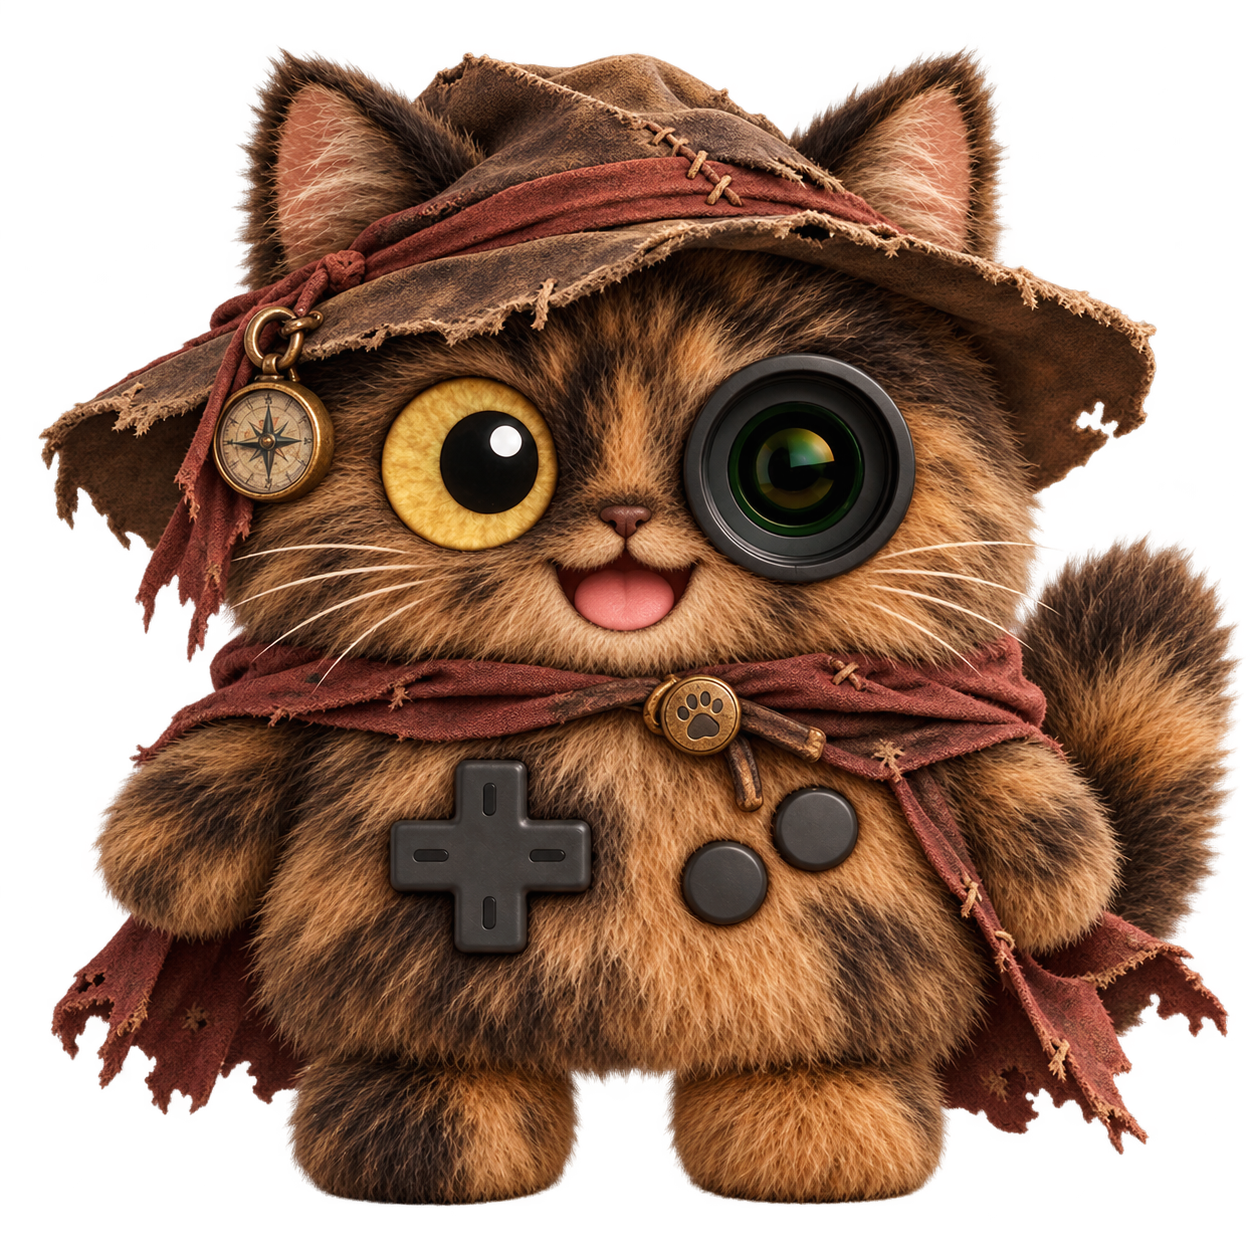
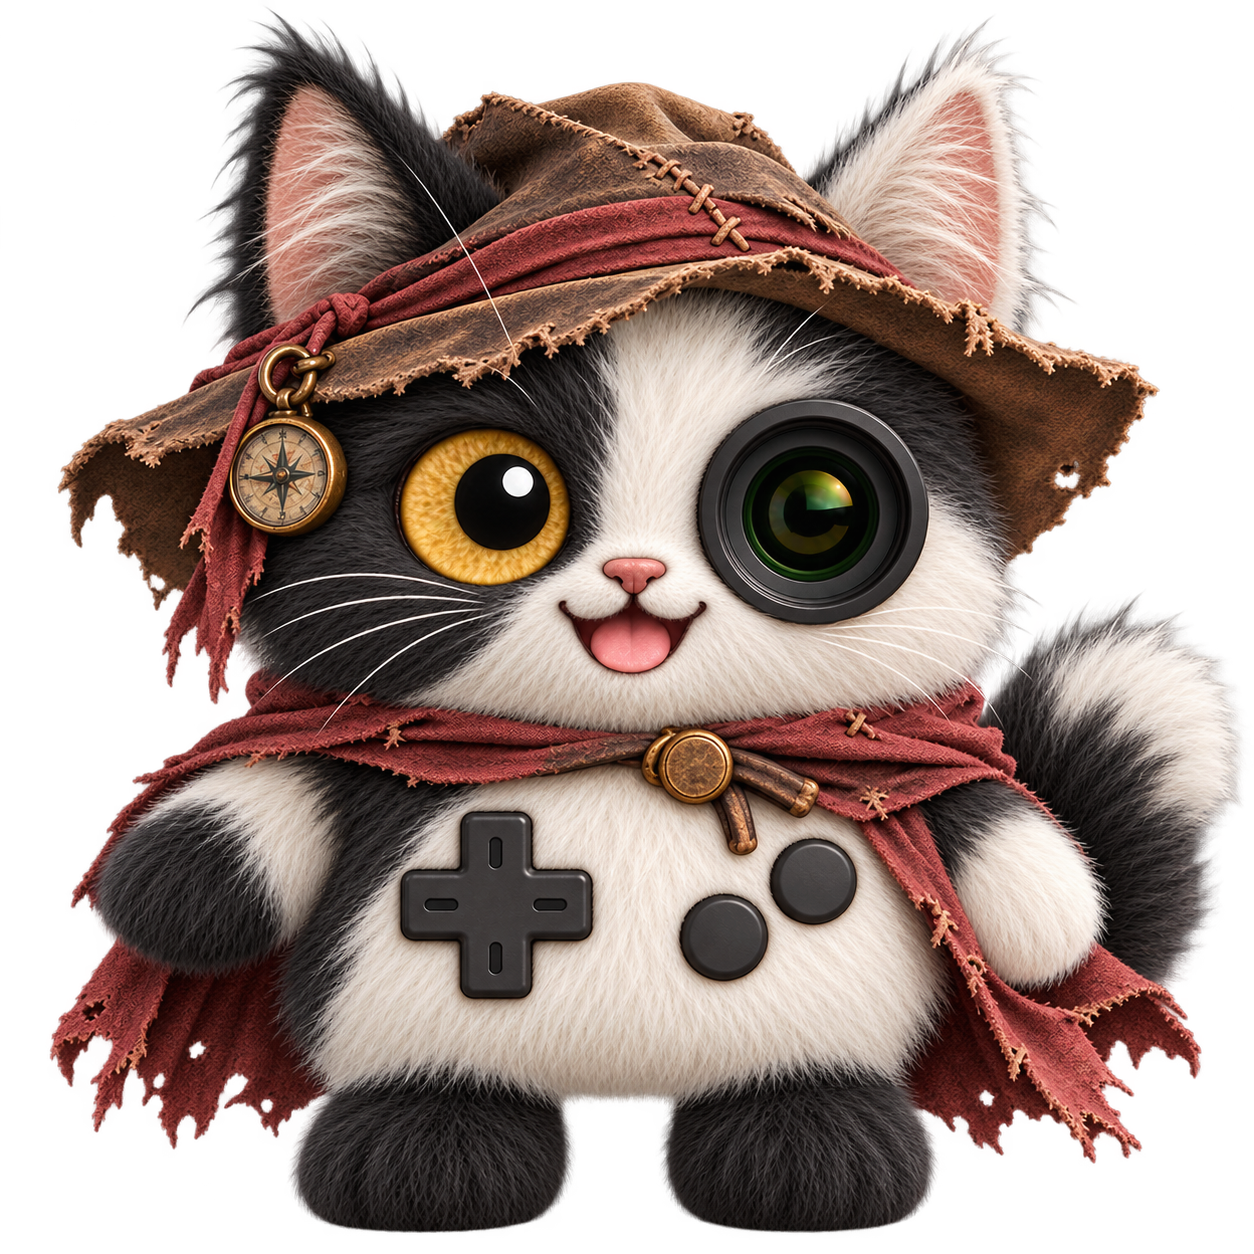
Differentiate ten look-alike Mobbies with distinct coats ears and faces

diff --git a/assets/cat-mobbies/review/validate-progress.py b/assets/cat-mobbies/review/validate-progress.py
@@ -1,0 +1,29 @@
+"""Validate generated asset records, fixed identities and scope against branch base."""
+import json,hashlib,subprocess,re
+from pathlib import Path
+from PIL import Image
+root=Path('assets/cat-mobbies');records=[json.loads(p.read_text(encoding='utf-8')) for p in (root/'review').glob('accepted-*.json')]
+ids={r['id'] for r in records};assert len(ids)==len(records)
+for rel in ['manifest.json','new/manifest.json']:
+ path=root/rel;now=json.loads(path.read_text(encoding='utf-8'));old=json.loads(subprocess.check_output(['git','show','00114a8:'+path.as_posix()]))
+ arr=now['characters'] if isinstance(now,dict) else now;prev=old['characters'] if isinstance(old,dict) else old
+ assert len(arr)==len(prev)
+ for e,o in zip(arr,prev):
+  for k in ['id','name','file','condition']:
+   assert e.get(k)==o.get(k),(e['id'],k)
+  if e['id'] not in ids:assert e==o,e['id']
+  else:assert e.get('regen') is True and e.get('regenReason')
+listtext=Path('docs/codex/BREEDS_100_LIST.md').read_text(encoding='utf-8');specs={}
+for row in listtext.splitlines():
+ cols=[c.strip() for c in row.strip('|').split('|')]
+ if row.startswith('| ') and len(cols)==3 and cols[0] not in ['ID','---']:specs[cols[0]]=cols[1]
+assert len(specs)==100
+for e in json.loads((root/'breeds2/manifest.json').read_text(encoding='utf-8')):assert specs[e['id']]==e['name'];assert e['batch'] in 'abcdefghij' and e['kind']=='breed'
+for r in records:
+ p=Path(r['target']);im=Image.open(p);assert im.size==(1254,1254) and im.mode=='RGBA';lo,hi=im.getchannel('A').getextrema();assert lo==0 and hi>=250
+ v=r['validation'];assert hashlib.sha256(p.read_bytes()).hexdigest()==v['sha256'] and p.stat().st_size==v['bytes']
+changed=subprocess.check_output(['git','diff','00114a8','--name-only'],text=True).splitlines();assert all(p.startswith(('assets/cat-mobbies/','docs/codex/')) for p in changed)
+a=[r for r in records if r.get('kind')!='breed'];b=[r for r in records if r.get('kind')=='breed']
+report={'aAccepted':len(a),'aIds':sorted(r['id'] for r in a),'bAccepted':len(b),'bRemaining':100-len(b),'bIds':sorted(r['id'] for r in b),'scopeCheck':'passed: only cat assets and records','hashDimensionAlphaIdentityChecks':'passed','visualQA':'per accepted record; final similarity re-audit still pending'}
+(root/'review/progress.json').write_text(json.dumps(report,ensure_ascii=False,indent=2)+'\n',encoding='utf-8')
+print(json.dumps(report,ensure_ascii=False))

diff --git a/assets/cat-mobbies/review/update-progress.py b/assets/cat-mobbies/review/update-progress.py
@@ -1,0 +1,5 @@
+from pathlib import Path
+p=Path('assets/cat-mobbies/review/similarity.md');s=p.read_text(encoding='utf-8').replace('状態: 初回監査完了、試作生成中。Aの再描画と最終再監査、Bの100匹は未完了。','状態: 初回監査と指定5匹の試作比較を完了。A本番の再描画中。A最終再監査とB本番は未完了。')
+s+='\n## 再開後の試作確定\n\n指定5匹が揃い、既存36匹と並べて質感・型を目視確認した。shikaku再試作を採用し、元のキャラ案に合わせたキャラメル単色短毛・低い丸耳・四角い体に変更。savannah（d）は大きな耳と黒い斑点、mike-neko（j）は短毛の白黒橙と長い尾で採用。全5匹1254×1254 RGBA透過。mike-nekoのアルファ最大値は254（ほぼ不透明）であり、生成アルファを変更せず保存した。A採用2匹、B試作3匹。ここからA本番へ進む。\n'
+p.write_text(s,encoding='utf-8')
+p=Path('assets/cat-mobbies/breeds2/README.md');s=p.read_text(encoding='utf-8').replace('現在の採用: ragdoll-seal-mitted（f）','現在の採用3匹: savannah（d）、ragdoll-seal-mitted（f）、mike-neko（j）').replace('残り99匹','残り97匹').replace('アルファ最小0/最大255','アルファ最小0/最大254〜255');p.write_text(s,encoding='utf-8')

diff --git a/assets/cat-mobbies/provenance/prompts-regen-prototypes.md b/assets/cat-mobbies/provenance/prompts-regen-prototypes.md
@@ -2,6 +2,62 @@
 
 Built-in image_gen. Reference 1: characters/bengal.png; reference 2: characters/ragdoll.png. A edits also use original target as reference 3.
 
+## bunshin
+
+Use case: stylized-concept. ONE cat Mobby, exact 1254x1254 transparent alpha PNG. References 1 bengal and 2 ragdoll define realistic individually visible directional animal fur, glossy eye, camera lens and controls. Unified rounded-square head/body with NO neck or separate head, short arms and two short feet, front-facing upright full body. Exactly ONE living cat eye viewer LEFT, round black pupil and white catchlight; exactly ONE black concentric camera lens viewer RIGHT, green reflective glass. Exactly one black cross D-pad lower LEFT with four inset slots and exactly TWO plain unmarked black round buttons diagonally lower RIGHT. Tiny nose W mouth whiskers. No paw marks on controls. Soft studio light. Centered with generous TRANSPARENT margin around all extremities, no floor, checkerboard, text or watermark. Never plush or felt. REGENERATE bunshin. Reference image 3 is the original edit target; retain its concept and the specified props while replacing the MAIN CAT's appearance. References 1/2 define hardware/fur quality only. Dark cool BLUE GREY short tight curly fur, NO brown orange or tortie. Very small rounded ears, a low wide square body, silver-green living iris. Keep two pale faceless translucent afterimage silhouettes behind the main cat, without extra visible eyes/lenses/controls. Keep tan collar. All props must leave eye lens and controls visible. Keep original filename/identity; no new text.
+
+Reason: rea-mobbyを含む長毛キジ三毛グループとの重複を解消。青灰の短い巻き毛、低い丸耳、銀緑目へ変更。残像と首輪を保持。
+
+QA: accepted: one biological eye, right green-glass lens, D-pad and two plain buttons visible; original concept props retained, distinct coat and texture
+
+## collector
+
+Use case: stylized-concept. Regenerate ONE collector cat Mobby. Reference 1 bengal and 2 ragdoll define realistic directional fur, living eye/hardware quality. Reference 3 original target defines concept and props only. BLUE and CREAM broad patches, SHORT smooth coat, small FOLDED ears, very plump wide rounded-square torso with round cheeks, copper eye. No orange black tortie or long fur. Preserve original monocle, brown strap, small photo collection album. Keep unified rounded-square head/body NO neck, two short feet and short arms. Exactly ONE living eye viewer LEFT with round pupil and white highlight, exactly ONE green-glass black camera lens viewer RIGHT. One black D-pad lower LEFT, exactly TWO plain black round buttons diagonal lower RIGHT. No paw marks on controls. Front full body. Soft studio light. True transparent alpha PNG exact1254x1254, generous margin; no floor/checkerboard/text/watermark. Change main cat ears face fur and body proportions substantially from image3.
+
+Reason: rea-mobby等との長毛キジ三毛の重複を解消。青クリームの短毛・折れ耳・幅広体型へ変更。片眼鏡と猫写真アルバムを保持。
+
+QA: accepted: correct eye/lens/controls, original concept props retained; coat, ears and face differentiated
+
+## country-30
+
+Use case: stylized-concept. ONE cat Mobby, exact 1254x1254 transparent alpha PNG. References 1 bengal and 2 ragdoll define realistic individually visible directional animal fur, glossy eye, camera lens and controls. Unified rounded-square head/body with NO neck or separate head, short arms and two short feet, front-facing upright full body. Exactly ONE living cat eye viewer LEFT, round black pupil and white catchlight; exactly ONE black concentric camera lens viewer RIGHT, green reflective glass. Exactly one black cross D-pad lower LEFT with four inset slots and exactly TWO plain unmarked black round buttons diagonally lower RIGHT. Tiny nose W mouth whiskers. No paw marks on controls. Soft studio light. Centered with generous TRANSPARENT margin around all extremities, no floor, checkerboard, text or watermark. Never plush or felt. REGENERATE country-30. Reference image 3 is the original edit target; retain its concept and the specified props while replacing the MAIN CAT's appearance. References 1/2 define hardware/fur quality only. IVORY CREAM coarse SHORT WIRY fur, solid pale body with subtle grey ear tips, NO orange brown tabby/tortie. Broad low sturdy squared torso, medium rounded ears and broad smiling muzzle, warm gold iris. Preserve explorer hat, backpack and rolled map from image 3 without extra props. All props must leave eye lens and controls visible. Keep original filename/identity; no new text.
+
+Reason: rea-mobbyを含む長毛キジ三毛グループとの重複を解消。アイボリーの短い粗毛、灰色の耳先、幅広体型へ変更。探検帽・リュック・地図を保持。
+
+QA: accepted: one biological eye, right green-glass lens, D-pad and two plain buttons visible; original concept props retained, distinct coat and texture
+
+## halloween
+
+Use case: stylized-concept. ONE cat Mobby, exact 1254x1254 transparent alpha PNG. References 1 bengal and 2 ragdoll define realistic individually visible directional animal fur, glossy eye, camera lens and controls. Unified rounded-square head/body with NO neck or separate head, short arms and two short feet, front-facing upright full body. Exactly ONE living cat eye viewer LEFT, round black pupil and white catchlight; exactly ONE black concentric camera lens viewer RIGHT, green reflective glass. Exactly one black cross D-pad lower LEFT with four inset slots and exactly TWO plain unmarked black round buttons diagonally lower RIGHT. Tiny nose W mouth whiskers. No paw marks on controls. Soft studio light. Centered with generous TRANSPARENT margin around all extremities, no floor, checkerboard, text or watermark. Never plush or felt. REGENERATE halloween. Reference 3 original target defines props/concept only; reference 1 bengal and 2 ragdoll define Mobby anatomy, hardware and realistic directional fur. BLACK SMOKE short sleek fur with pale SILVER undercoat at cheeks and flanks, NO brown/orange fur. LARGE wide-set ears, narrow square body, angular cheeks, amber eye. Keep little witch hat with pumpkin and broom, bell collar. Preserve unified rounded-square body no neck, short limbs. One living eye viewer left and one black green glass lens viewer right; one D-pad lower left and exactly two plain black diagonal round buttons lower right. Props must not hide controls. Front full body, real animal fur not felt. Exact1254x1254 transparent PNG with margin, no floor/grid/text/watermark.
+
+Reason: 茶色単色の丸顔グループから、黒煙と銀下毛の短毛・大耳・角張った顔へ変更。魔女帽子・かぼちゃ・ほうき・鈴を保持。
+
+QA: accepted: correct one eye/right lens/D-pad/two plain buttons, concept props retained, distinct main coat
+
+## kikan
+
+Use case: stylized-concept. Regenerate ONE kikan cat Mobby. Reference 1 bengal and 2 ragdoll define realistic directional fur, living eye/hardware quality. Reference 3 original target defines concept and props only. JET BLACK and WHITE asymmetric broad patches, coarse SHORT guard hairs, NO brown orange/tortie. White crown, black viewer-left cheek, broad white belly, black feet. Tall triangular tufted ears, rugged angular muzzle, lean squared torso, amber eye. Preserve worn travel hat and burgundy ragged cape and compass clasp. Keep unified rounded-square head/body NO neck, two short feet and short arms. Exactly ONE living eye viewer LEFT with round pupil and white highlight, exactly ONE green-glass black camera lens viewer RIGHT. One black D-pad lower LEFT, exactly TWO plain black round buttons diagonal lower RIGHT. No paw marks on controls. Front full body. Soft studio light. True transparent alpha PNG exact1254x1254, generous margin; no floor/checkerboard/text/watermark. Change main cat ears face fur and body proportions substantially from image3.
+
+Reason: rea-mobby等との長毛キジ三毛の重複を解消。黒白の非対称大斑・短い粗毛・房耳へ変更。古い旅帽子と赤茶マントを保持。
+
+QA: accepted: correct eye/lens/controls, original concept props retained; coat, ears and face differentiated
+
+## mushoku
+
+Use case: stylized-concept. ONE cat Mobby, exact 1254x1254 transparent alpha PNG. References 1 bengal and 2 ragdoll define realistic individually visible directional animal fur, glossy eye, camera lens and controls. Unified rounded-square head/body with NO neck or separate head, short arms and two short feet, front-facing upright full body. Exactly ONE living cat eye viewer LEFT, round black pupil and white catchlight; exactly ONE black concentric camera lens viewer RIGHT, green reflective glass. Exactly one black cross D-pad lower LEFT with four inset slots and exactly TWO plain unmarked black round buttons diagonally lower RIGHT. Tiny nose W mouth whiskers. No paw marks on controls. Soft studio light. Centered with generous TRANSPARENT margin around all extremities, no floor, checkerboard, text or watermark. Never plush or felt. REGENERATE mushoku. Reference 3 original target defines props/concept only; reference 1 bengal and 2 ragdoll define Mobby anatomy, hardware and realistic directional fur. WHITE base with ONE large MILK CHOCOLATE patch over viewer-right ear and tail, SHORT soft WAVY fur, NO tabby or black orange tortie. Low round ears, broad loaf-like body, drooping cheeks and tired green-grey eye. Keep original paw-pattern pajama shirt and matching slipper on ground. Preserve unified rounded-square body no neck, short limbs. One living eye viewer left and one black green glass lens viewer right; one D-pad lower left and exactly two plain black diagonal round buttons lower right. Props must not hide controls. Front full body, real animal fur not felt. Exact1254x1254 transparent PNG with margin, no floor/grid/text/watermark.
+
+Reason: 茶色単色の丸顔グループから、白地にチョコ大斑・幅広胴へ変更。肉球柄パジャマとスリッパを保持。
+
+QA: accepted: correct one eye/right lens/D-pad/two plain buttons, concept props retained, distinct main coat
+
+## shachou
+
+Use case: stylized-concept. Regenerate ONE shachou cat Mobby. Reference 1 bengal and 2 ragdoll define realistic directional fur, living eye/hardware quality. Reference 3 original target defines concept and props only. Bright SILVER shaded very SHORT dense plush fur, grey crown only, NO brown orange tabby/tortie. Tiny rounded ears, very wide square cheeks and torso, confident slightly narrowed emerald eye. Preserve charcoal pinstripe suit, white shirt and red necktie from original; keep controls on suit visible. Keep unified rounded-square head/body NO neck, two short feet and short arms. Exactly ONE living eye viewer LEFT with round pupil and white highlight, exactly ONE green-glass black camera lens viewer RIGHT. One black D-pad lower LEFT, exactly TWO plain black round buttons diagonal lower RIGHT. No paw marks on controls. Front full body. Soft studio light. True transparent alpha PNG exact1254x1254, generous margin; no floor/checkerboard/text/watermark. Change main cat ears face fur and body proportions substantially from image3.
+
+Reason: rea-mobby等との長毛キジ三毛の重複を解消。銀色の極短毛・低い丸耳・幅広頬・細めの緑目へ変更。元のスーツと赤いネクタイを保持。
+
+QA: accepted: correct eye/lens/controls, original concept props retained; coat, ears and face differentiated
+
 ## shikaku
 
 Create one short-furred pale caramel Mobby cat, very wide low rounded-square bread-loaf unified head/body, no neck. Tiny low round ears, amber living eye viewer left, black green-glass camera lens viewer right. One black D-pad lower left, exactly two plain black round buttons diagonally lower right. Realistic directional short fur, short arms, two short feet. Front full body, transparent background 1254x1254 with padding. Reference 1 bengal and 2 ragdoll define hardware and fur quality. No tabby, white patches, accessories, clothes, text.
@@ -17,3 +73,11 @@ Use case: stylized-concept. ONE cat Mobby, exact 1254x1254 transparent alpha PNG
 Reason: rea-mobby / shikaku / bunshin と同じ長毛キジ三毛だったため、白ライラックの短毛・大耳・細い角形胴に変更。肩の顔なし猫ぬいぐるみと首輪を保持。
 
 QA: accepted: one left eye / right lens / D-pad / two plain buttons; short fur and big ears visibly distinct; verify alpha/dimensions on import
+
+## traveling-mobby
+
+Use case: stylized-concept. ONE cat Mobby, exact 1254x1254 transparent alpha PNG. References 1 bengal and 2 ragdoll define realistic individually visible directional animal fur, glossy eye, camera lens and controls. Unified rounded-square head/body with NO neck or separate head, short arms and two short feet, front-facing upright full body. Exactly ONE living cat eye viewer LEFT, round black pupil and white catchlight; exactly ONE black concentric camera lens viewer RIGHT, green reflective glass. Exactly one black cross D-pad lower LEFT with four inset slots and exactly TWO plain unmarked black round buttons diagonally lower RIGHT. Tiny nose W mouth whiskers. No paw marks on controls. Soft studio light. Centered with generous TRANSPARENT margin around all extremities, no floor, checkerboard, text or watermark. Never plush or felt. REGENERATE traveling-mobby. Reference image 3 is the original edit target; retain its concept and the specified props while replacing the MAIN CAT's appearance. References 1/2 define hardware/fur quality only. SHORT red-brown MACKEREL TABBY fur with distinct narrow stripes, white small muzzle, NO black/orange calico mottling, no shaggy coat. LARGE upright pointed ears, angular cheeks, taller athletic squared torso, amber iris. Preserve backpack, tiny hanging camera, compass collar, explorer concept from image 3. No extra props. All props must leave eye lens and controls visible. Keep original filename/identity; no new text.
+
+Reason: rea-mobbyを含む長毛キジ三毛グループとの重複を解消。赤茶の短毛マッカレル縞、大きな耳、角張った頬と琥珀目へ変更。リュック・カメラ・コンパスを保持。
+
+QA: accepted: one biological eye, right green-glass lens, D-pad and two plain buttons visible; original concept props retained, distinct coat and texture

diff --git a/assets/cat-mobbies/review/similarity.md b/assets/cat-mobbies/review/similarity.md
@@ -1,7 +1,7 @@
 # 既存136匹の類似監査
 
 監査日: 2026-10-25。対象ブランチ: codex/new-mobbies-2。
-状態: 初回監査完了、試作生成中。Aの再描画と最終再監査、Bの100匹は未完了。
+状態: 初回監査と指定5匹の試作比較を完了。A本番の再描画中。A最終再監査とB本番は未完了。
 
 ## 方法
 
@@ -48,3 +48,7 @@ bengal, toyger, ocicat, abyssinian, singapura, exotic-shorthair, scottish-fold, 
 - 未完了: Aの残りの再描画と最終再監査、Bの残り99匹。「同じ見た目は最大2匹」の達成はまだ検証していない。
 
 初回保持判定の補足: hakubutsukan, hatsuhinode, ichiichi, ijike, omatsuri, ousama, sanbiki, shoku, zorome, uyu-mobby は初回では保持。最終再監査の対象には含める。
+
+## 再開後の試作確定
+
+指定5匹が揃い、既存36匹と並べて質感・型を目視確認した。shikaku再試作を採用し、元のキャラ案に合わせたキャラメル単色短毛・低い丸耳・四角い体に変更。savannah（d）は大きな耳と黒い斑点、mike-neko（j）は短毛の白黒橙と長い尾で採用。全5匹1254×1254 RGBA透過。mike-nekoのアルファ最大値は254（ほぼ不透明）であり、生成アルファを変更せず保存した。A採用2匹、B試作3匹。ここからA本番へ進む。

diff --git a/assets/cat-mobbies/breeds2/README.md b/assets/cat-mobbies/breeds2/README.md
@@ -2,10 +2,10 @@
 
 実在猫種・毛色100種をbuilt-in image_genで制作中。現在の生成件数はmanifest.jsonを参照。B本番はA完了後。指定の3試作は先行して質感を確認する。
 
-- 現在の採用: ragdoll-seal-mitted（f）、1254×1254、RGBA透過PNG。
+- 現在の採用3匹: savannah（d）、ragdoll-seal-mitted（f）、mike-neko（j）、1254×1254、RGBA透過PNG。
 - Bの作り直し: 0匹。
 - Fバッチの一覧は未完了の試作一覧。
 - プロンプト: ../provenance/prompts-breeds2-f.md
-- 残り99匹と全バッチの最終検品は未完了。
+- 残り97匹と全バッチの最終検品は未完了。
 
-目視で生体目1つ、カメラレンズ1つ、十字キー1つ、無地丸ボタン2つ、シールマスク・白い顎とミトン・クリームの長毛・青い虹彩を確認。アルファ最小0/最大255と1254×1254を機械検証済み。
+目視で生体目1つ、カメラレンズ1つ、十字キー1つ、無地丸ボタン2つ、シールマスク・白い顎とミトン・クリームの長毛・青い虹彩を確認。アルファ最小0/最大254〜255と1254×1254を機械検証済み。
